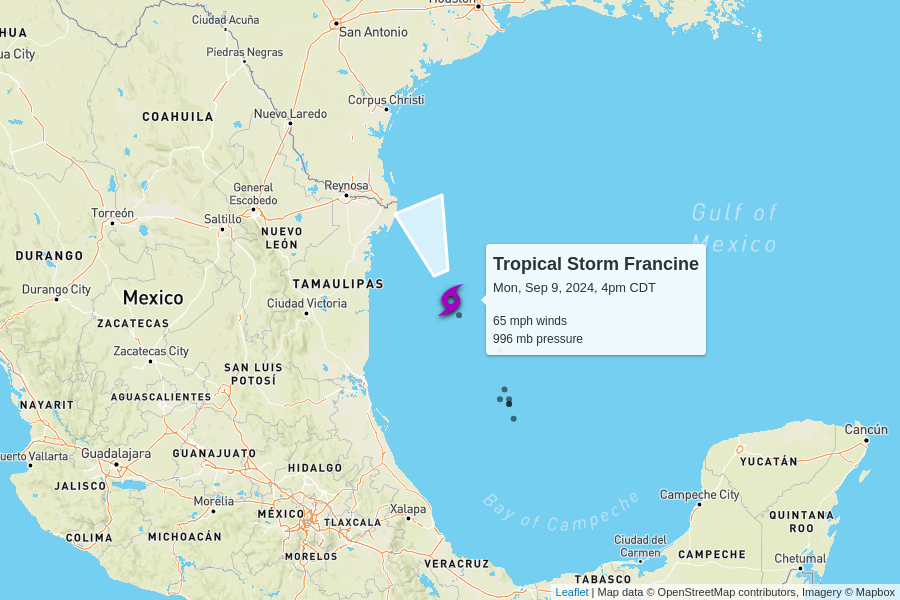
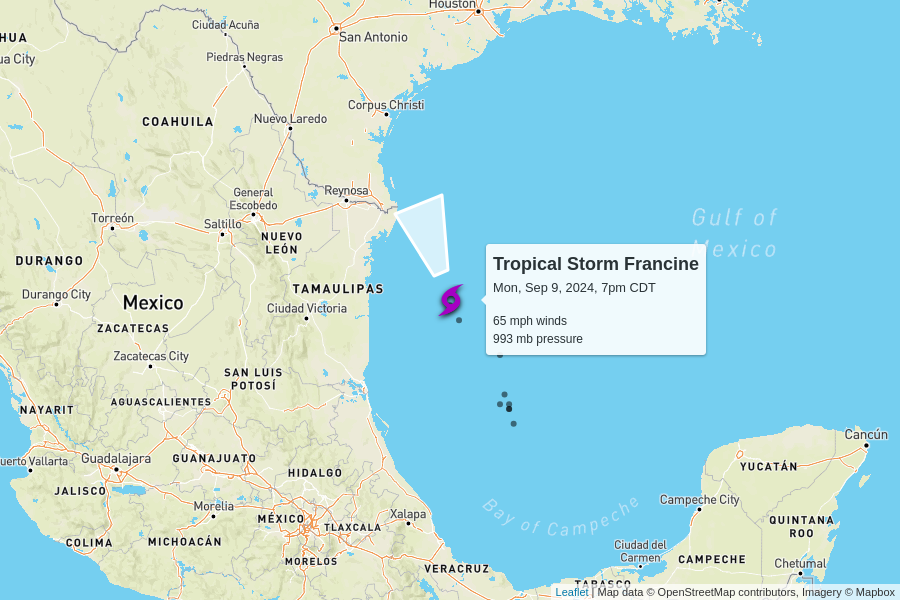
automatic update

diff --git a/docs/index.html b/docs/index.html
@@ -102,7 +102,7 @@
         <td colspan="6" class="storm category-0" >
           <h2>
             Tropical Storm Francine
-            <p class="updated">last updated <span data-time>2024-09-09T21:00:00.000Z</span></p>
+            <p class="updated">last updated <span data-time>2024-09-10T00:00:00.000Z</span></p>
           </h2>
         </td>
       </tr>
@@ -117,8 +117,8 @@
       </tr>
       <tr>
         <td class="spacer"></td>
-        <td>65 mph<br>+5 mph since last update</td>
-        <td>996 mb<br>0 mb since last update</td>
+        <td>65 mph<br>0 mph since last update</td>
+        <td>993 mb<br>-3 mb since last update</td>
         <td>
           7 mph to the north-northwest
           <br/>
